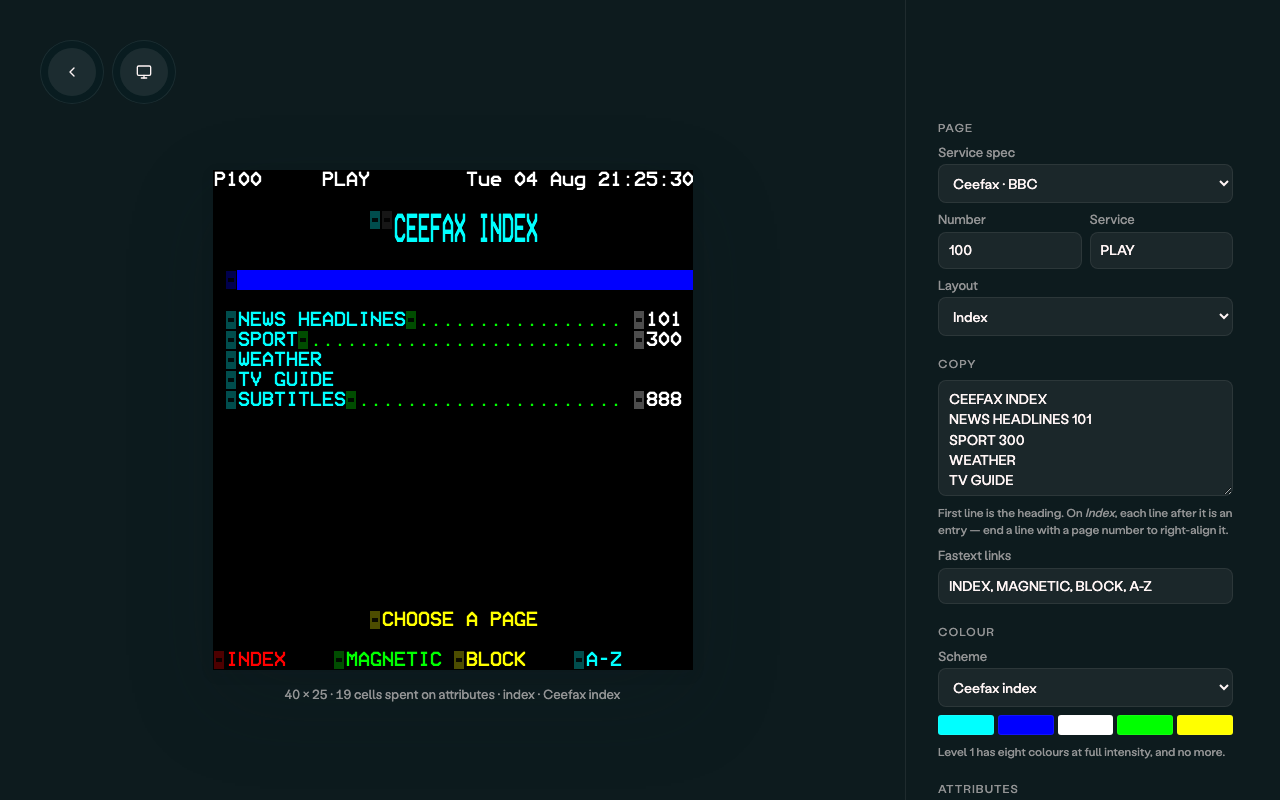
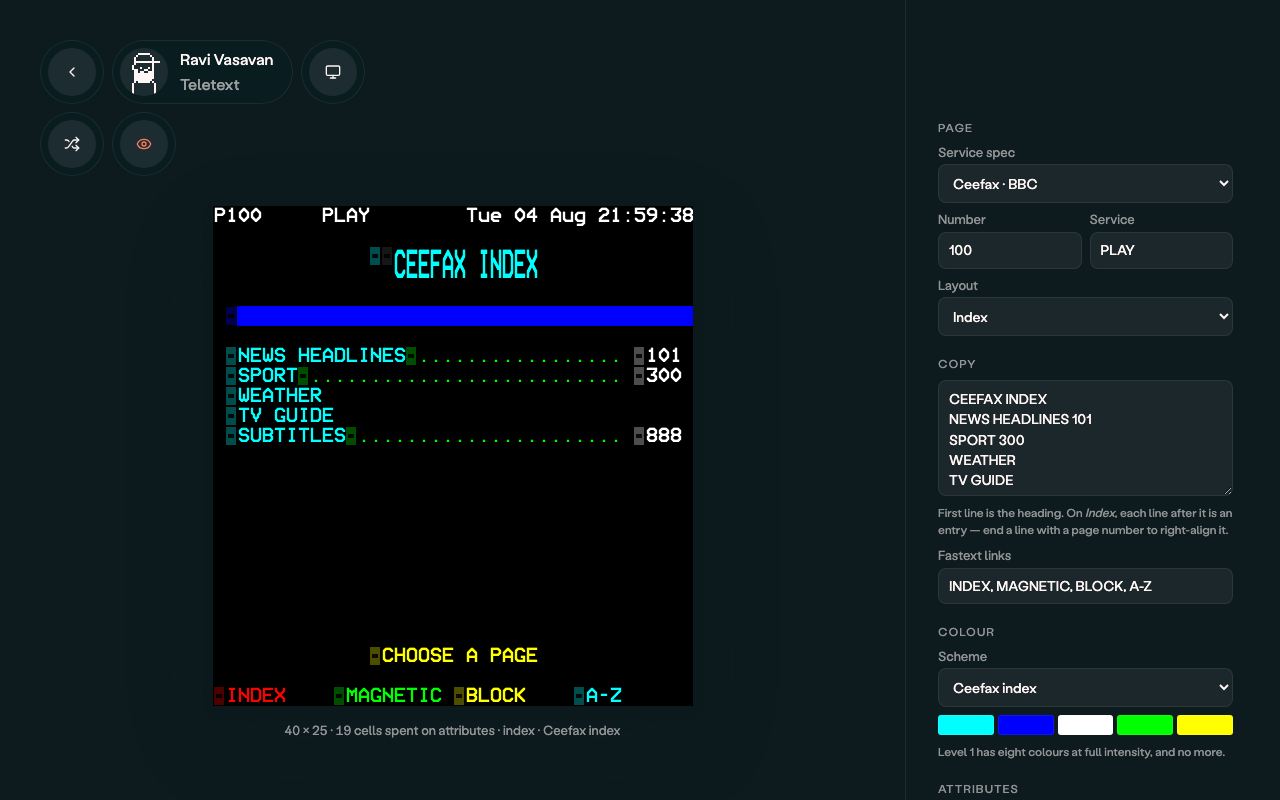
Chrome runs on two levels across the experiments
The site's own pills — back to play, the identity pill, the theme switch —
hold the top row, and each experiment's buttons take a second row beneath.
Magnetic had the theme switch sitting in with upload, camera and shuffle,
so a control belonging to the whole family shared a band with controls
belonging to one page; now the level a control answers to is obvious from
the row it's in.

Magnetic: theme moves up to the top row's right end, and upload, camera,
snap and shuffle drop to a tools row.

Teletext: gains the identity pill it never had, so its top row reads like
magnetic's — back, identity, theme, all left-anchored because the right
side is the control panel. Its tools row takes randomise and reveal-codes,
which move out of the panel rather than being duplicated in it: the panel
keeps the settings, the row takes the actions, and the active eye lights
up while codes are revealed. The stage's top padding grows to clear both
rows, because a centred page on a narrow desktop window is wide enough to
reach the pills.

Rows sit 40px in and one 64px pill apart, tightening to 12/84 on
magnetic's fold and 16/88 on teletext's. Verified at 1500x1000, 901x700
and 500x900 on both pages: the rows never overlap each other, and
teletext's tools clear both the panel and the page at every size.

diff --git a/20260804/teletext/index.html b/20260804/teletext/index.html
@@ -87,7 +87,10 @@
       grid-template-columns: minmax(0, 1fr) 360px;
     }
 
-    /* ---- chrome: same pills as the rest of play ---- */
+    /* ---- chrome: two levels, same as magnetic ----
+       Top row is the site's: back to play, the identity pill, the theme
+       switch. Second row is this experiment's own buttons. Both anchor left,
+       over the stage, because the right-hand side is the control panel. */
     .pills {
       position: fixed;
       top: 40px;
@@ -96,7 +99,35 @@
       align-items: center;
       gap: 8px;
     }
+    /* 40px in, one 64px pill down, 8px of air */
+    .pills--tools { top: 112px; }
     .pills--left { left: 40px; }
+
+    .header-pill {
+      background: var(--pill-bg);
+      backdrop-filter: var(--pill-filter);
+      -webkit-backdrop-filter: var(--pill-filter);
+      border-radius: 32px;
+      padding: 8px;
+      box-shadow: inset 0 0 0 1px var(--separator);
+      margin: 0;
+    }
+    .header-pill__inner { display: flex; align-items: center; gap: 12px; }
+    .header-pill__avatar {
+      width: 48px;
+      height: 48px;
+      border-radius: 48px;
+      background: var(--separator);
+      overflow: hidden;
+      flex-shrink: 0;
+    }
+    .header-pill__avatar svg { width: 100%; height: 100%; display: block; }
+    .header-pill__label { display: flex; flex-direction: column; gap: 4px; padding-right: 12px; }
+    .header-pill__name { font-size: 16px; line-height: 1.3; }
+    .header-pill__role { font-size: 16px; line-height: 1.3; opacity: 0.6; }
+
+    /* A tool pill that's currently on — reveal-codes, mainly. */
+    .icon-pill.is-on { color: var(--orange); }
 
     .icon-pill {
       background: var(--pill-bg);
@@ -180,7 +211,9 @@
       overflow: auto;
       display: grid;
       place-items: center;
-      padding: 120px 40px 48px;
+      /* Clears both chrome rows: the tools row ends at 176px, and on a narrow
+         desktop window the centred page is wide enough to reach the pills. */
+      padding: 192px 40px 48px;
     }
     #screen-wrap { display: grid; gap: 16px; justify-items: center; }
     /* The page never inverts with the theme: teletext is black, full stop.
@@ -272,15 +305,17 @@
       body { grid-template-columns: minmax(0, 1fr); overflow: auto; }
       html, body { height: auto; }
       .pills { top: 16px; }
+      .pills--tools { top: 88px; }
       .pills--left { left: 16px; }
-      #stage { padding: 96px 16px 24px; overflow: visible; }
+      .header-pill__role { display: none; }
+      #stage { padding: 168px 16px 24px; overflow: visible; }
       #panel { border-left: 0; border-top: 1px solid var(--separator); padding: 24px 16px 64px; overflow: visible; }
     }
   </style>
 </head>
 <body>
-  <!-- Both pills live top-left, over the stage: the theme pill used to sit at
-       top-right, where it floated on top of the control panel. -->
+  <!-- Top row, site level: back, identity, theme. All left-anchored over the
+       stage, since the right-hand side is the control panel. -->
   <div class="pills pills--left">
     <a class="icon-pill" href="/" aria-label="Back to play index">
       <span class="icon-pill__icon">
@@ -289,6 +324,17 @@
         </svg>
       </span>
     </a>
+    <header class="header-pill">
+      <div class="header-pill__inner">
+        <div class="header-pill__avatar">
+          <svg width="48" height="48" viewBox="0 0 48 48" fill="none" xmlns="http://www.w3.org/2000/svg"> <rect width="2.00001" height="2.00001" transform="matrix(-1 0 0 1 32 13)" fill="currentColor"/> <rect width="4.00001" height="2.00001" transform="matrix(-1 0 0 1 20 13)" fill="currentColor"/> <path d="M34.0098 34.9766V48H36V34.9766H34.0098ZM13.9902 34.9766H12V48H13.9902V35.0293H15.9805V32.9814H13.9902V34.9766ZM32 13H16V9H14V17H16V15H32V25H30V27H18V31H16V33H18V35H30V33H32V35H34V33H32V31H34V15H40V13H34V9H32V13ZM12 22H14V17H12V22ZM28 21H30V19H28V21ZM20 21H22V19H20V21ZM30 9H32V7H30V9ZM16 9H18V7H16V9ZM18 7H30V5H18V7Z" fill="currentColor"/> <rect width="4" height="6" transform="matrix(-1 0 0 1 18 27)" fill="currentColor"/> <rect width="2.00001" height="4.00001" transform="matrix(-1 0 0 1 16 21)" fill="currentColor"/> <path d="M16 25H18V21H16V25Z" fill="currentColor"/> <rect width="16.0001" height="2.00001" transform="matrix(-1 0 0 1 30 25)" fill="currentColor"/> <rect width="4.00001" height="2.00001" transform="matrix(-1 0 0 1 32 23)" fill="currentColor"/> <rect width="4.00001" height="2.00001" transform="matrix(-1 0 0 1 24 23)" fill="currentColor"/> <rect width="4.00001" height="2.00001" transform="matrix(-1 0 0 1 28 21)" fill="currentColor"/> </svg>
+        </div>
+        <div class="header-pill__label">
+          <span class="header-pill__name">Ravi Vasavan</span>
+          <span class="header-pill__role">Teletext</span>
+        </div>
+      </div>
+    </header>
     <button class="icon-pill icon-pill--theme" type="button" aria-label="Toggle theme" data-theme-toggle>
       <span class="icon-pill__icon">
         <svg data-tstate="day" viewBox="0 0 24 24" fill="none" stroke="currentColor" stroke-width="2" stroke-linecap="round" stroke-linejoin="round" aria-hidden="true">
@@ -303,6 +349,26 @@
       </span>
     </button>
   </div>
+
+  <!-- Second row: teletext's own buttons. These two used to be a button and a
+       checkbox in the panel; the panel keeps the settings, the row takes the
+       actions, and neither is duplicated. -->
+  <nav class="pills pills--left pills--tools" aria-label="Teletext controls">
+    <button class="icon-pill" id="p-random" type="button" aria-label="Randomise the page">
+      <span class="icon-pill__icon">
+        <svg viewBox="0 0 24 24" fill="none" stroke="currentColor" stroke-width="2" stroke-linecap="round" stroke-linejoin="round" aria-hidden="true">
+          <path d="M2 18h1.4c1.3 0 2.5-.6 3.3-1.7l6.1-8.6c.7-1.1 2-1.7 3.3-1.7H22"/><path d="m18 2 4 4-4 4"/><path d="M2 6h1.9c1.5 0 2.9.9 3.6 2.2"/><path d="M22 18h-5.9c-1.3 0-2.6-.7-3.3-1.8l-.5-.8"/><path d="m18 14 4 4-4 4"/>
+        </svg>
+      </span>
+    </button>
+    <button class="icon-pill" id="p-reveal" type="button" aria-label="Reveal the control codes" aria-pressed="false">
+      <span class="icon-pill__icon">
+        <svg viewBox="0 0 24 24" fill="none" stroke="currentColor" stroke-width="2" stroke-linecap="round" stroke-linejoin="round" aria-hidden="true">
+          <path d="M2.062 12.348a1 1 0 0 1 0-.696 10.75 10.75 0 0 1 19.876 0 1 1 0 0 1 0 .696 10.75 10.75 0 0 1-19.876 0"/><circle cx="12" cy="12" r="3"/>
+        </svg>
+      </span>
+    </button>
+  </nav>
 
   <main id="stage">
     <div id="screen-wrap">
@@ -365,10 +431,9 @@
         <label class="check"><input id="c-separated" type="checkbox"> Separated mosaics</label>
         <label class="check"><input id="c-hold" type="checkbox" checked> Hold mosaic</label>
         <label class="check"><input id="c-flash" type="checkbox"> Flash the strap</label>
-        <label class="check"><input id="c-reveal" type="checkbox"> Reveal codes</label>
       </div>
       <p class="hint">Every attribute is <em>spacing</em> — it occupies a cell of
-        its own. Reveal codes to see what the layout is paying.</p>
+        its own. The eye, top left, reveals what the layout is paying.</p>
     </div>
 
     <div class="group">
@@ -406,7 +471,8 @@
           </select>
         </label>
       </div>
-      <button class="action" id="c-random" type="button">Randomise</button>
+      <p class="hint">The shuffle pill, top left, draws a whole new page — seed,
+        layout, palette and copy together.</p>
     </div>
 
     <div class="group">
@@ -1255,7 +1321,9 @@
     el('c-separated').checked = state.separated;
     el('c-hold').checked = state.hold;
     el('c-flash').checked = state.flash;
-    el('c-reveal').checked = state.reveal;
+    // Reveal-codes is a pill in the tools row rather than a checkbox now.
+    el('p-reveal').classList.toggle('is-on', state.reveal);
+    el('p-reveal').setAttribute('aria-pressed', String(state.reveal));
     paintSwatches();
   }
 
@@ -1310,12 +1378,24 @@
   bind('c-dither', 'dither', t => t.value);
   bind('c-changes', 'changes', t => +t.value || 6);
   for (const [id, key] of [['c-double', 'double'], ['c-separated', 'separated'],
-                           ['c-hold', 'hold'], ['c-flash', 'flash'], ['c-reveal', 'reveal']]) {
+                           ['c-hold', 'hold'], ['c-flash', 'flash']]) {
     el(id).addEventListener('change', e => { state[key] = e.target.checked; build(); });
   }
 
+  // Reveal-codes lives in the tools row: it acts on the page rather than
+  // describing it, which is the line between the row and the panel.
+  el('p-reveal').addEventListener('click', () => {
+    stopCycle();
+    state.reveal = !state.reveal;
+    el('p-reveal').classList.toggle('is-on', state.reveal);
+    el('p-reveal').setAttribute('aria-pressed', String(state.reveal));
+    paint();
+  });
+
   // Randomise draws a whole page: seed, layout, scheme and copy together.
-  el('c-random').addEventListener('click', () => {
+  el('p-random').addEventListener('click', () => {
+    stopCycle();
+    state.testCard = false;
     state.seed = Math.random().toString(36).slice(2, 8);
     const rand = seeded(state.seed);
     const pick = SEEDS[Math.floor(rand() * SEEDS.length)];

diff --git a/20260731/magnetic/index.html b/20260731/magnetic/index.html
@@ -79,9 +79,12 @@
         --separator: color-mix(in srgb, var(--white) 8%, transparent);
       }
     }
-    /* Experiment pages keep their own chrome layout: identity + back pill
-       top-left, action pills top-right. (The sites' pages — main + play
-       index — share the centred 3-track layout instead.) */
+    /* Chrome runs on two levels. The top row is the site's own — back to play,
+       the identity pill, the theme switch — and it reads the same on every
+       experiment. The row beneath belongs to this experiment alone, so its
+       buttons never share a band with the navigation and it's obvious which
+       level a control answers to. (The sites' pages — main + play index —
+       share the centred 3-track layout instead.) */
     .pills {
       position: fixed;
       top: 40px;
@@ -90,6 +93,8 @@
       align-items: center;
       gap: 8px;
     }
+    /* 40px in, one 64px pill down, 8px of air */
+    .pills--tools { top: 112px; }
     .pills--left { left: 40px; }
     .pills--right { right: 40px; }
 
@@ -204,6 +209,7 @@
 
     @media (max-width: 640px) {
       .pills { top: 12px; }
+      .pills--tools { top: 84px; }
       .pills--left { left: 12px; }
       .pills--right { right: 12px; }
       .header-pill__role { display: none; }
@@ -314,7 +320,26 @@
     </header>
   </div>
 
-  <nav class="pills pills--right">
+  <!-- Top row, site level: the theme switch belongs to the family, not to this
+       experiment, so it sits up here with back and identity. -->
+  <div class="pills pills--right">
+    <button class="icon-pill icon-pill--theme" type="button" aria-label="Toggle theme" data-theme-toggle>
+      <span class="icon-pill__icon">
+        <svg data-tstate="day" viewBox="0 0 24 24" fill="none" stroke="currentColor" stroke-width="2" stroke-linecap="round" stroke-linejoin="round" aria-hidden="true">
+          <circle cx="12" cy="12" r="4"/><path d="M12 2v2"/><path d="M12 20v2"/><path d="m4.93 4.93 1.41 1.41"/><path d="m17.66 17.66 1.41 1.41"/><path d="M2 12h2"/><path d="M20 12h2"/><path d="m6.34 17.66-1.41 1.41"/><path d="m19.07 4.93-1.41 1.41"/>
+        </svg>
+        <svg data-tstate="night" viewBox="0 0 24 24" fill="none" stroke="currentColor" stroke-width="2" stroke-linecap="round" stroke-linejoin="round" aria-hidden="true">
+          <path d="M12 3a6 6 0 0 0 9 9 9 9 0 1 1-9-9Z"/>
+        </svg>
+        <svg data-tstate="system" viewBox="0 0 24 24" fill="none" stroke="currentColor" stroke-width="2" stroke-linecap="round" stroke-linejoin="round" aria-hidden="true">
+          <rect width="20" height="14" x="2" y="3" rx="2"/><line x1="8" x2="16" y1="21" y2="21"/><line x1="12" x2="12" y1="17" y2="21"/>
+        </svg>
+      </span>
+    </button>
+  </div>
+
+  <!-- Second row: magnetic's own buttons. -->
+  <nav class="pills pills--right pills--tools" aria-label="Magnetic controls">
     <button class="icon-pill" id="btn-upload" type="button" aria-label="Upload image">
       <span class="icon-pill__icon">
         <svg viewBox="0 0 24 24" fill="none" stroke="currentColor" stroke-width="2" stroke-linecap="round" stroke-linejoin="round" aria-hidden="true">
@@ -343,19 +368,6 @@
       <span class="icon-pill__icon">
         <svg viewBox="0 0 24 24" fill="none" stroke="currentColor" stroke-width="2" stroke-linecap="round" stroke-linejoin="round" aria-hidden="true">
           <path d="M2 18h1.4c1.3 0 2.5-.6 3.3-1.7l6.1-8.6c.7-1.1 2-1.7 3.3-1.7H22"/><path d="m18 2 4 4-4 4"/><path d="M2 6h1.9c1.5 0 2.9.9 3.6 2.2"/><path d="M22 18h-5.9c-1.3 0-2.6-.7-3.3-1.8l-.5-.8"/><path d="m18 14 4 4-4 4"/>
-        </svg>
-      </span>
-    </button>
-    <button class="icon-pill icon-pill--theme" type="button" aria-label="Toggle theme" data-theme-toggle>
-      <span class="icon-pill__icon">
-        <svg data-tstate="day" viewBox="0 0 24 24" fill="none" stroke="currentColor" stroke-width="2" stroke-linecap="round" stroke-linejoin="round" aria-hidden="true">
-          <circle cx="12" cy="12" r="4"/><path d="M12 2v2"/><path d="M12 20v2"/><path d="m4.93 4.93 1.41 1.41"/><path d="m17.66 17.66 1.41 1.41"/><path d="M2 12h2"/><path d="M20 12h2"/><path d="m6.34 17.66-1.41 1.41"/><path d="m19.07 4.93-1.41 1.41"/>
-        </svg>
-        <svg data-tstate="night" viewBox="0 0 24 24" fill="none" stroke="currentColor" stroke-width="2" stroke-linecap="round" stroke-linejoin="round" aria-hidden="true">
-          <path d="M12 3a6 6 0 0 0 9 9 9 9 0 1 1-9-9Z"/>
-        </svg>
-        <svg data-tstate="system" viewBox="0 0 24 24" fill="none" stroke="currentColor" stroke-width="2" stroke-linecap="round" stroke-linejoin="round" aria-hidden="true">
-          <rect width="20" height="14" x="2" y="3" rx="2"/><line x1="8" x2="16" y1="21" y2="21"/><line x1="12" x2="12" y1="17" y2="21"/>
         </svg>
       </span>
     </button>
